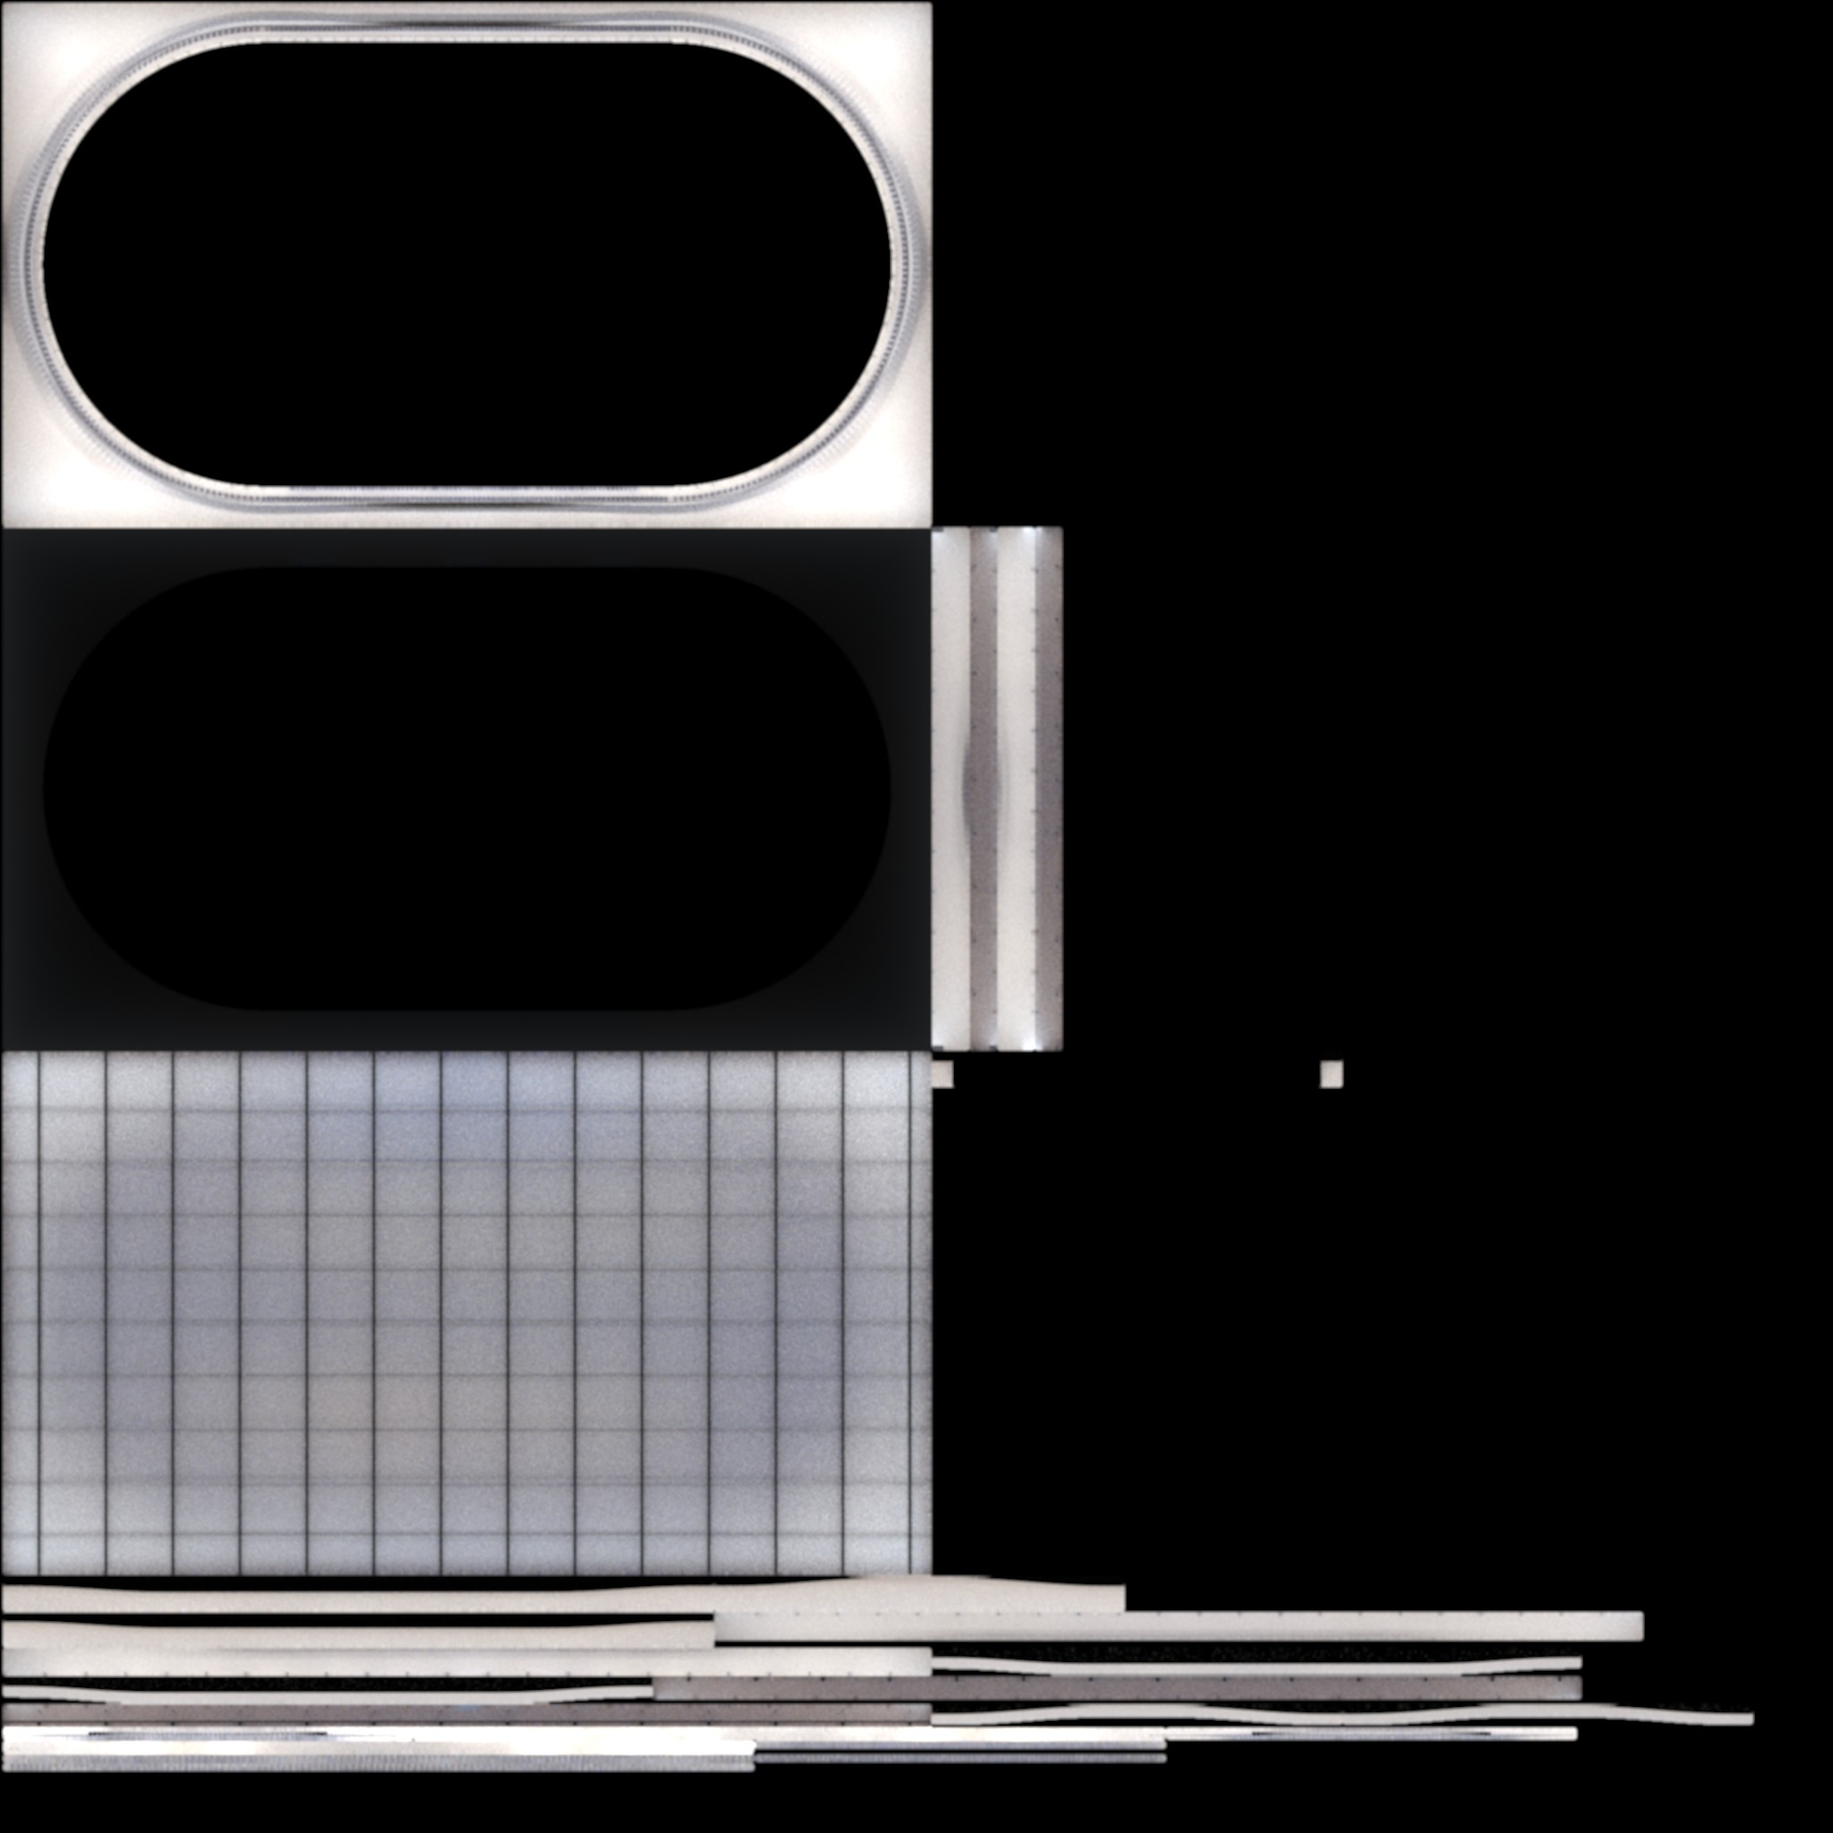
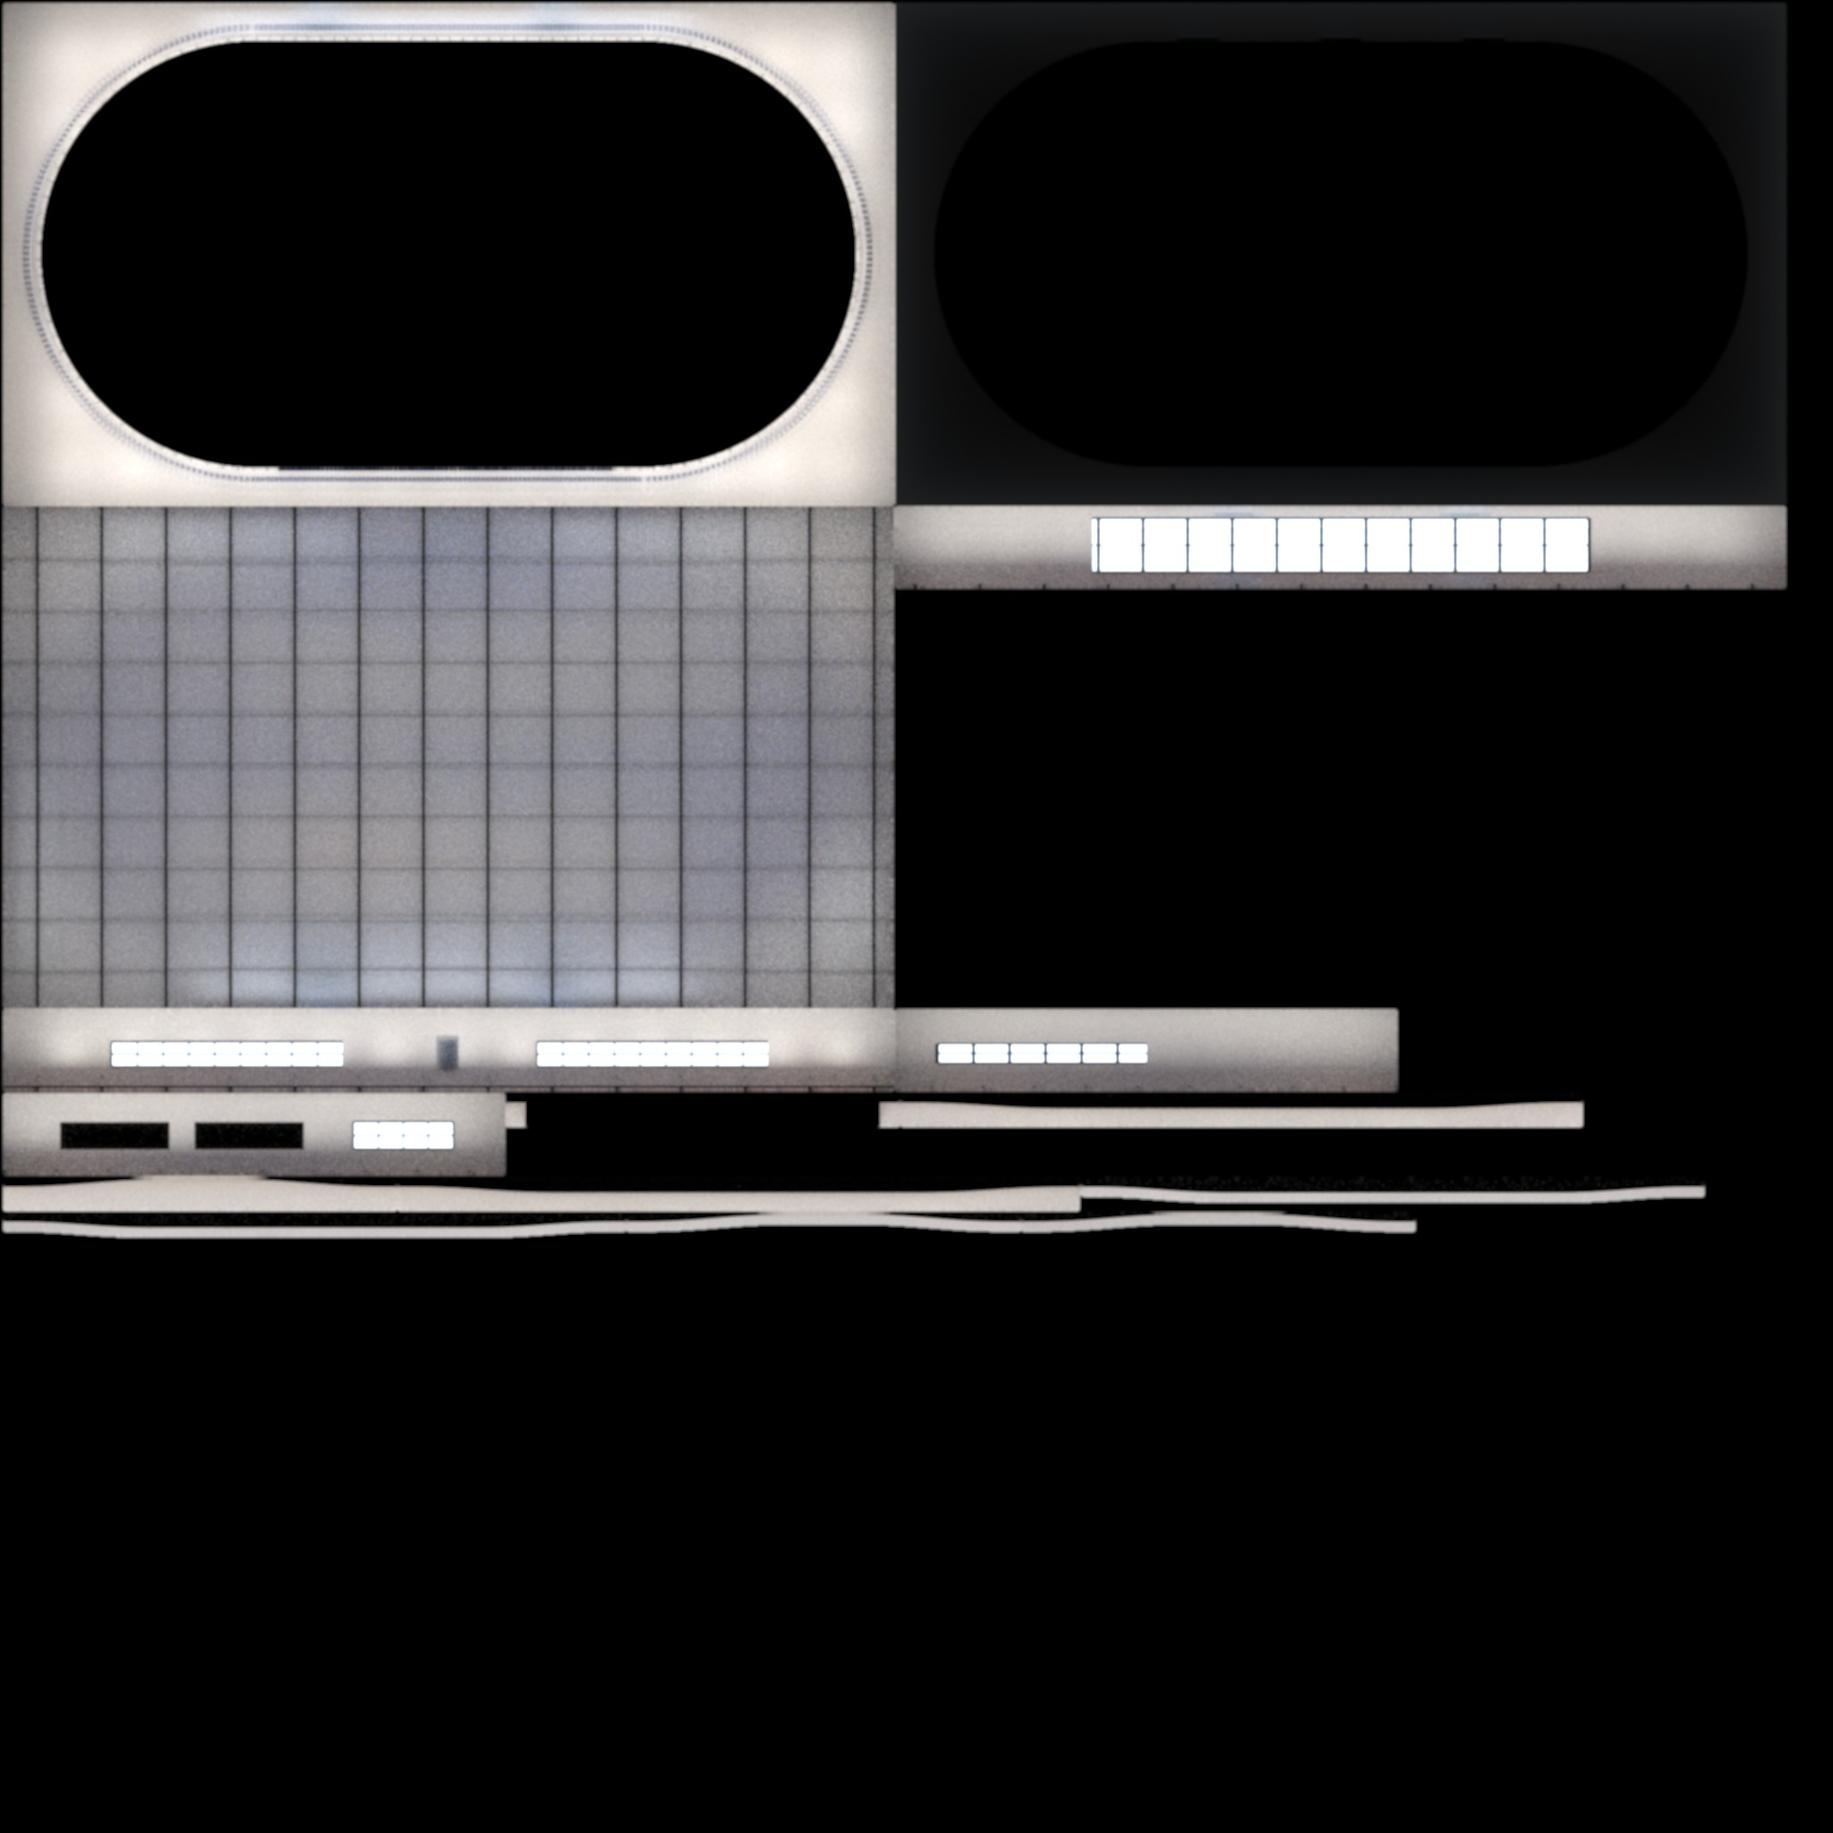
Piste couverte : une rangee de sieges, les vraies facades, la lumiere recuite
L'auteur : « une seule ligne de chaises bleues, pas deux », « les fenetres ne font
pas toutes les facades, il y a des parties mur », « regarde encore les videos ».
D'apres la visite filmee de 2025 :
- un seul rang de sieges bleus derriere la balustrade de la coursive
- un bardage d'acier gris a nervures horizontales ; les vitrages par endroits :
  le grand vitrage central a poteaux blancs face a la tribune (deux banderoles
  bleu ciel devant), deux groupes au-dessus de la tribune, cinq fenetres sur un
  pignon, un groupe et deux fresques sepia sur l'autre
- le bandeau de bois en planches horizontales
- parois posees par une base explicite (textes droits sur les pignons), et les
  images retournees sous le miroir du monde
- lumiere recuite dans Blender pour la nouvelle geometrie

diff --git a/src/game/salle-3d.ts b/src/game/salle-3d.ts
@@ -293,7 +293,8 @@ export function construireSalle(ctx: ContexteSalle) {
   enQuarts(k => murAnneau(R_MUR, () => 0, hautMur, k), double(blanc), 'coque');
   const passage = new THREE.MeshStandardMaterial({ color: new THREE.Color().setRGB(0.55, 0.56, 0.58, THREE.SRGBColorSpace), roughness: 0.9 });
   ajouter(bandeAnneau(R_MUR, R_BOIS, 0), passage, true, 'sol');
-  const bois = lamesDeBois([168, 82, 46], true, 17); bois.repeat.set(1 / 1.5, 1 / 1.5);
+  // (des planches HORIZONTALES, d'un bois chaud : la visite filmee de 2025)
+  const bois = lamesDeBois([176, 98, 52], false, 17); bois.repeat.set(1 / 3, 1 / 1.6);
   const matBois = new THREE.MeshStandardMaterial({ map: bois, roughness: 0.75 });
   enQuarts(k => murAnneau(R_BOIS, () => 0, () => H_COURSIVE, k), double(matBois), 'coque');
   // la coursive : un plancher de l'ovale aux murs de la halle, et sa lisse vitree
@@ -317,8 +318,8 @@ export function construireSalle(ctx: ContexteSalle) {
   const lisseRail = new THREE.MeshStandardMaterial({ color: 0x2a2d33, roughness: 0.4, metalness: 0.7 });
   ajouter(murAnneau(R_BOIS + 0.05, () => H_COURSIVE + 1.02, () => H_COURSIVE + 1.1), lisseRail, false);
   // LES GRADINS DU HAUT (« les gradins du dessus manquent cruellement de details », l'auteur, 26/10) :
-  // sur place, la coursive porte deux rangs de sieges bleus derriere sa balustrade de verre a
-  // poteaux d'acier ; le second rang monte d'une marche. Tout est instancie.
+  // sur place, la coursive porte un rang de sieges bleus derriere sa balustrade de verre a
+  // poteaux d'acier. Tout est instancie.
   {
     const Mx = new THREE.Matrix4(), q = new THREE.Quaternion(), un = new THREE.Vector3(1, 1, 1), Z = new THREE.Vector3(0, 0, 1);
     const poser = (lot: THREE.InstancedMesh, i: number, x: number, y: number, z: number, cap: number, sx = 1, sy = 1, sz = 1) => {
@@ -334,16 +335,13 @@ export function construireSalle(ctx: ContexteSalle) {
       reste = 0; poser(poteaux, np++, a[i].x, a[i].y, H_COURSIVE + 0.55, 0);
     }
     poteaux.count = np; g.add(poteaux);
-    // la marche du second rang, en bois clair comme le reste de la coursive
-    const marcheHaute = lamesDeBois([150, 120, 96], false, 41); marcheHaute.repeat.set(1 / 1.2, 1);
-    enQuarts(k => bandeAnneau(R_BOIS + 1.45, R_BOIS + 2.3, H_COURSIVE + 0.32, k), new THREE.MeshStandardMaterial({ map: marcheHaute, roughness: 0.8 }), 'coque');
-    enQuarts(k => murAnneau(R_BOIS + 1.45, () => H_COURSIVE, () => H_COURSIVE + 0.32, k), new THREE.MeshStandardMaterial({ color: 0x8a8d92, roughness: 0.9, side: THREE.DoubleSide }), 'coque');
     // les sieges : une coque bleue (assise + dossier), deux rangs, tous les 0,5 m
     const assise = new THREE.BoxGeometry(0.44, 0.42, 0.06), dossier = new THREE.BoxGeometry(0.44, 0.06, 0.4);
     const bleu = new THREE.MeshStandardMaterial({ color: new THREE.Color().setRGB(0.10, 0.36, 0.78, THREE.SRGBColorSpace), roughness: 0.5 });
     const lotA = new THREE.InstancedMesh(assise, bleu, 1400), lotD = new THREE.InstancedMesh(dossier, bleu, 1400);
     let ns = 0;
-    for (const [r, z] of [[R_BOIS + 0.95, H_COURSIVE + 0.45], [R_BOIS + 1.85, H_COURSIVE + 0.77]] as const) {
+    // UN SEUL RANG (« une seule ligne de chaises bleues, pas deux », l'auteur, 26/10), juste derriere la balustrade
+    for (const [r, z] of [[R_BOIS + 0.95, H_COURSIVE + 0.45]] as const) {
       const b = tour(r);
       let l = 0;
       for (let i = 1; i < b.length && ns < 1400; i++) {
@@ -378,9 +376,16 @@ export function construireSalle(ctx: ContexteSalle) {
   }
   sieges.count = n; sieges.castShadow = false; sieges.receiveShadow = true; g.add(sieges);
 
-  // LES MURS DE LA HALLE, ses longs bandeaux vitres, et le plafond de bois sur des fermes d'acier
+  /** Une banderole bleu ciel au nom de la ville (le meme dessin partout ; aucune marque). */
+  const matBandeVille = () => new THREE.MeshStandardMaterial({ roughness: 0.7, side: THREE.DoubleSide, map: toile(512, 640, (c, w, h) => {
+    const gr = c.createLinearGradient(0, 0, 0, h); gr.addColorStop(0, '#6cc8ea'); gr.addColorStop(1, '#3a9ad6');
+    c.fillStyle = gr; c.fillRect(0, 0, w, h);
+    c.fillStyle = '#ffffff'; c.font = '900 64px system-ui, sans-serif'; c.textAlign = 'center';
+    c.fillText('VAL', w / 2, h * 0.42); c.fillText('DE REUIL', w / 2, h * 0.56);
+    c.beginPath(); c.moveTo(w / 2 - 60, h * 0.66); c.lineTo(w / 2 + 60, h * 0.66); c.lineTo(w / 2, h * 0.8); c.closePath(); c.fill();
+  }) });
+  // LES MURS DE LA HALLE, ses facades, et le plafond de bois sur des fermes d'acier
   const L = S + 2 * LONG, X0 = -S - LONG, X1 = LONG, Y0 = -RS - LARGE, Y1 = -RS + LARGE;
-  const blancHaut = new THREE.MeshStandardMaterial({ map: mur([236, 238, 240], 9), roughness: 0.95 });
   const ciel = new THREE.MeshStandardMaterial({ color: 0xe8f4ff, emissive: 0xcfe6ff, emissiveIntensity: 0.9, roughness: 0.1 });
   ciel.name = 'vitrage';
   const montant = new THREE.MeshStandardMaterial({ color: 0x3a3f46, roughness: 0.5, metalness: 0.6 });
@@ -390,27 +395,80 @@ export function construireSalle(ctx: ContexteSalle) {
   // LES PAROIS N'ONT QU'UNE FACE, TOURNEE VERS L'INTERIEUR (comme au Palais) : le plan de
   // camera venu du 2D filme de loin et de haut, depuis dehors, et doit voir a travers.
   const paroi = (x: number, y: number, z0: number, z1: number, long: number, normale: 'x+' | 'x-' | 'y+' | 'y-', mat: THREE.Material) => {
-    const m = ajouter(new THREE.PlaneGeometry(normale[0] === 'y' ? long : z1 - z0, normale[0] === 'y' ? z1 - z0 : long), mat, false, mat === ciel ? '' : 'coque');
+    // la longueur en u, la hauteur en v, le haut de l'image en haut (nervures horizontales, textes droits)
+    const m = ajouter(new THREE.PlaneGeometry(long, z1 - z0), mat, false, mat === ciel ? '' : 'coque');
     m.position.set(x, y, (z0 + z1) / 2);
-    if (normale === 'y-') m.rotation.x = Math.PI / 2; else if (normale === 'y+') m.rotation.x = -Math.PI / 2;
-    else if (normale === 'x-') m.rotation.y = -Math.PI / 2; else m.rotation.y = Math.PI / 2;
+    // (une base posee a la main, pas lookAt : la salle est sous le miroir de `monde`)
+    const n = new THREE.Vector3(normale === 'x+' ? 1 : normale === 'x-' ? -1 : 0, normale === 'y+' ? 1 : normale === 'y-' ? -1 : 0, 0);
+    const haut = new THREE.Vector3(0, 0, 1), droite = new THREE.Vector3().crossVectors(haut, n);
+    m.quaternion.setFromRotationMatrix(new THREE.Matrix4().makeBasis(droite, haut, n));
     return m;
   };
-  // les grands murs : pleins jusqu'a 6 m, vitres de 6 a 10,5 m (montants tous les 4,5 m), pleins au-dessus
-  for (const [y, n] of [[Y0, 'y+'], [Y1, 'y-']] as const) {
-    paroi(-S / 2, y, H_COURSIVE, 6, L, n, blancHaut);
-    paroi(-S / 2, y, 10.5, H_TOIT, L, n, blancHaut);
-    paroi(-S / 2, y, 6, 10.5, L, n, ciel);
-    const d = n === 'y+' ? 0.12 : -0.12;
-    for (let x = X0; x <= X1; x += 4.5) pan(0.25, 0.2, x, y + d, 6, 10.5, montant);
-    pan(L, 0.2, -S / 2, y + d, 8.2, 8.35, montant);
+  // LES FACADES (« les fenetres ne font pas toutes les facades, il y a des parties mur », l'auteur,
+  // 26/10 ; la visite filmee de 2025) : un bardage d'acier gris clair a nervures horizontales, et
+  // des vitrages par endroits seulement — un grand vitrage central face a la tribune, entre des
+  // poteaux blancs, deux grandes banderoles bleu ciel suspendues devant ; au-dessus de la tribune,
+  // deux groupes de fenetres ; une rangee de cinq fenetres sur un pignon ; sur l'autre, un groupe
+  // de fenetres et deux grandes fresques sepia. Chaque vitrage est pose devant le bardage.
+  const bardage = toile(256, 256, (c, w, hh) => {
+    c.fillStyle = '#c9ccd1'; c.fillRect(0, 0, w, hh);
+    for (let y = 0; y < hh; y += 16) {
+      c.fillStyle = 'rgba(255,255,255,0.35)'; c.fillRect(0, y, w, 3);
+      c.fillStyle = 'rgba(0,0,0,0.12)'; c.fillRect(0, y + 12, w, 4);
+    }
+  });
+  bardage.repeat.set(1 / 4, 1 / 4);
+  const matBardage = new THREE.MeshStandardMaterial({ map: bardage, roughness: 0.6, metalness: 0.2 });
+  const poteauBlanc = new THREE.MeshStandardMaterial({ color: 0xf1f2f4, roughness: 0.5 });
+  const sepia = (graine: number) => toile(512, 384, (c, w, hh) => {
+    // une fresque de sport en sepia : des silhouettes d'athletes, sans personne de reel
+    const h = tirage(graine);
+    const gr = c.createLinearGradient(0, 0, w, hh); gr.addColorStop(0, '#a07a52'); gr.addColorStop(1, '#5e4028');
+    c.fillStyle = gr; c.fillRect(0, 0, w, hh);
+    for (let i = 0; i < 14; i++) {
+      const x = h() * w, y = hh * (0.35 + h() * 0.4), k = 30 + h() * 50;
+      c.fillStyle = `rgba(40,24,12,${0.35 + h() * 0.4})`;
+      c.beginPath(); c.arc(x, y - k * 1.1, k * 0.18, 0, Math.PI * 2); c.fill();
+      c.beginPath(); c.ellipse(x, y - k * 0.5, k * 0.2, k * 0.5, (h() - 0.5) * 0.6, 0, Math.PI * 2); c.fill();
+      c.fillRect(x - k * 0.25, y, k * 0.12, k * 0.7); c.fillRect(x + k * 0.1, y - k * 0.05, k * 0.12, k * 0.6);
+    }
+    c.fillStyle = 'rgba(255,240,215,0.85)'; c.font = '700 34px Georgia, serif'; c.fillText('LE SPORT', 24, 52);
+  });
+  /** Une facade : le bardage plein, puis ses vitrages (fractions de la longueur, hauteurs), poteaux et meneaux. */
+  const facade = (axe: 'x' | 'y', pos: number, n: 'x+' | 'x-' | 'y+' | 'y-', long: number,
+                  vitrages: [number, number, number, number, number][]) => {
+    const debut = axe === 'y' ? X0 : Y0, d = n === 'y+' || n === 'x+' ? 1 : -1;
+    // le bardage
+    paroi(axe === 'y' ? -S / 2 : pos, axe === 'y' ? pos : -RS, H_COURSIVE, H_TOIT, long, n, matBardage);
+    for (const [a, b, z0, z1, pas] of vitrages) {
+      const c = debut + (a + b) / 2 * long, l = (b - a) * long;
+      const v = paroi(axe === 'y' ? c : pos, axe === 'y' ? pos : c, z0, z1, l, n, ciel);
+      v.position[axe === 'y' ? 'y' : 'x'] += d * 0.04;
+      // les meneaux (ou les poteaux blancs du grand vitrage) et les traverses
+      const blanc = pas > 4;
+      for (let t = debut + a * long; t <= debut + b * long + 1e-6; t += pas) {
+        if (axe === 'y') pan(blanc ? 0.4 : 0.14, 0.2, t, pos + d * 0.12, z0, z1, blanc ? poteauBlanc : montant);
+        else pan(0.2, blanc ? 0.4 : 0.14, pos + d * 0.12, t, z0, z1, blanc ? poteauBlanc : montant);
+      }
+      for (const z of [z0, z1, (z0 + z1) / 2]) {
+        if (axe === 'y') pan(l, 0.16, c, pos + d * 0.1, z - 0.07, z + 0.07, montant);
+        else pan(0.16, l, pos + d * 0.1, c, z - 0.07, z + 0.07, montant);
+      }
+    }
+  };
+  facade('y', Y0, 'y+', L, [[0.22, 0.78, 4.6, 10.8, 5.2]]);                 // face a la tribune : le grand vitrage
+  facade('y', Y1, 'y-', L, [[0.12, 0.38, 7, 9.8, 3], [0.6, 0.86, 7, 9.8, 3]]); // au-dessus de la tribune
+  facade('x', X0, 'x+', 2 * LARGE, [[0.08, 0.5, 7.2, 9.4, 4.2]]);           // un pignon : cinq fenetres
+  facade('x', X1, 'x-', 2 * LARGE, [[0.1, 0.3, 6.5, 9.6, 2.9]]);            // l'autre : un groupe de fenetres...
+  for (const [a, b, gr] of [[0.4, 0.62, 3], [0.67, 0.89, 7]] as const) {    // ... et deux fresques sepia
+    const f = paroi(X1, Y0 + (a + b) / 2 * 2 * LARGE, 6.5, 9.7, (b - a) * 2 * LARGE, 'x-', new THREE.MeshStandardMaterial({ map: sepia(gr), roughness: 0.9 }));
+    // (scale.x = -1 : le monde de la course est en miroir, voir les panneaux de course-3d.ts)
+    f.position.x -= 0.05; f.scale.x = -1; delete f.userData.lumiere;
   }
-  for (const [x, n] of [[X0, 'x+'], [X1, 'x-']] as const) {
-    paroi(x, -RS, H_COURSIVE, 7, 2 * LARGE, n, blancHaut);
-    paroi(x, -RS, 10, H_TOIT, 2 * LARGE, n, blancHaut);
-    paroi(x, -RS, 7, 10, 2 * LARGE, n, ciel);
-    const d = n === 'x+' ? 0.12 : -0.12;
-    for (let y = Y0; y <= Y1; y += 4.5) pan(0.2, 0.25, x + d, y, 7, 10, montant);
+  // les grandes banderoles bleu ciel suspendues devant le grand vitrage
+  for (const a of [0.36, 0.62]) {
+    const m = ajouter(new THREE.PlaneGeometry(5, 5.5), matBandeVille(), false);
+    m.position.set(X0 + a * L, Y0 + 0.9, 7.6); m.rotation.x = -Math.PI / 2; m.scale.x = -1;
   }
   // le plafond de bois clair, en lames dans la longueur
   const plafondBois = lamesDeBois([196, 126, 70], false, 29); plafondBois.repeat.set(L / 3, 2 * LARGE / 3);
@@ -454,10 +512,10 @@ export function construireSalle(ctx: ContexteSalle) {
   const matBand = new THREE.MeshStandardMaterial({ map: banderole, roughness: 0.7, side: THREE.DoubleSide });
   for (const x of [-S + 6, -S / 2, -6]) for (const y of [-RS - R_BOIS - 0.08]) {
     const m = ajouter(new THREE.PlaneGeometry(5, 1.25), matBand, false);
-    m.position.set(x, y, H_COURSIVE - 0.75); m.rotation.x = -Math.PI / 2;
+    m.position.set(x, y, H_COURSIVE - 0.75); m.rotation.x = -Math.PI / 2; m.scale.x = -1;
   }
   // un grand drapeau bleu ciel sous le toit, comme sur place
-  { const m = ajouter(new THREE.PlaneGeometry(2.2, 3.4), matBand, false); m.position.set(-S / 2, Y1 - 0.6, H_TOIT - 4); m.rotation.x = Math.PI / 2; }
+  { const m = ajouter(new THREE.PlaneGeometry(2.2, 3.4), matBand, false); m.position.set(-S / 2, Y1 - 0.6, H_TOIT - 4); m.rotation.x = Math.PI / 2; m.scale.x = -1; }
 
   // LA LUMIERE CUITE DANS BLENDER (tools/blender/salle/cuire_lumiere.py) : les plafonniers, les
   // grands vitrages, les rebonds et les ombres douces, cuits une fois pour toutes dans deux images.
